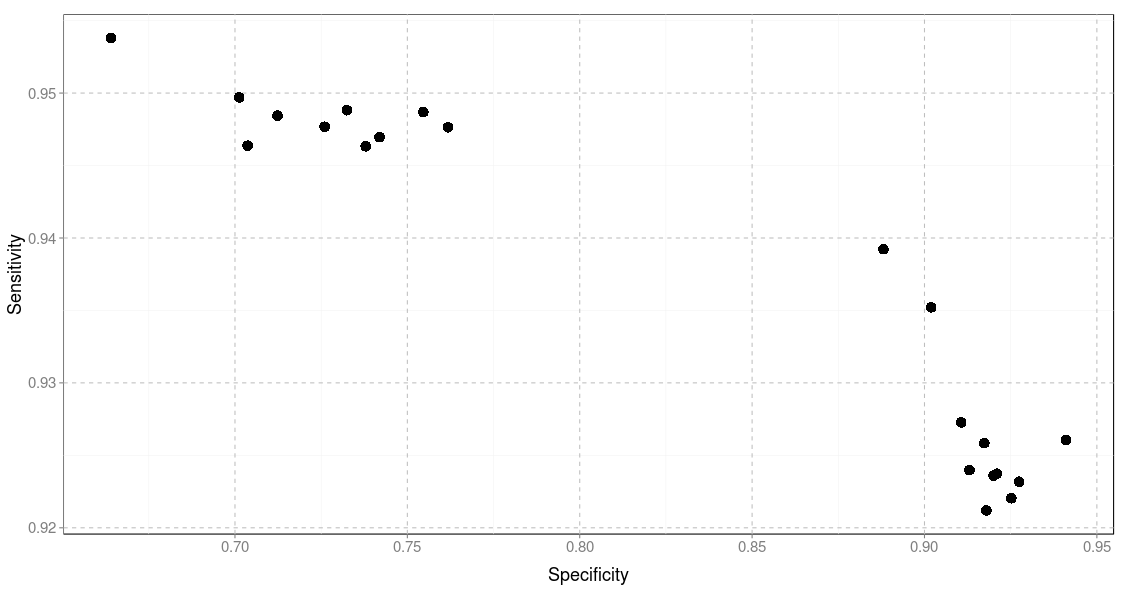
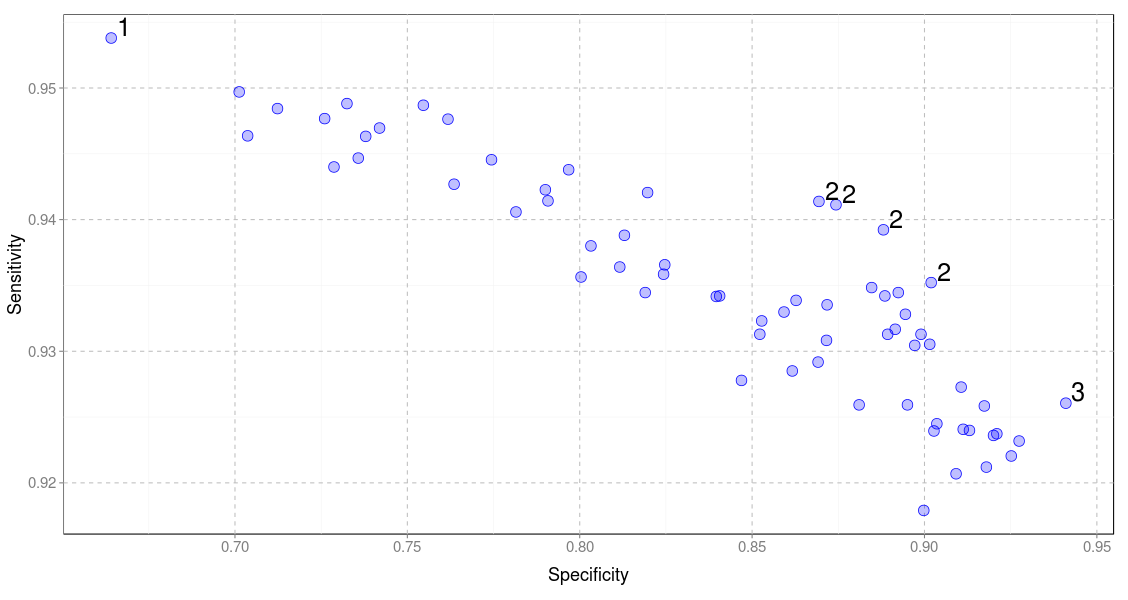
cvres figure done

diff --git a/paper.tex b/paper.tex
@@ -298,7 +298,7 @@ XXX n-grams were further used in the analysis
 
 \begin{figure}[ht]\centering
 \includegraphics[width=0.9\textwidth]{figures/cvres.png}
-\caption{Results of cross-validation for 15 best performing amino acid encodings.}
+\caption{Results of cross-validation. 1. An encoding providing the best sensitivity (AUC = 0.9337). 2. A group of encodings with be best sensitivity/specificity ratio (mean AUC = 0.9650). 3. An encoding providing the best specificity (AUC = 0.9686).}
 \label{fig:cvres}
 \end{figure}
 
